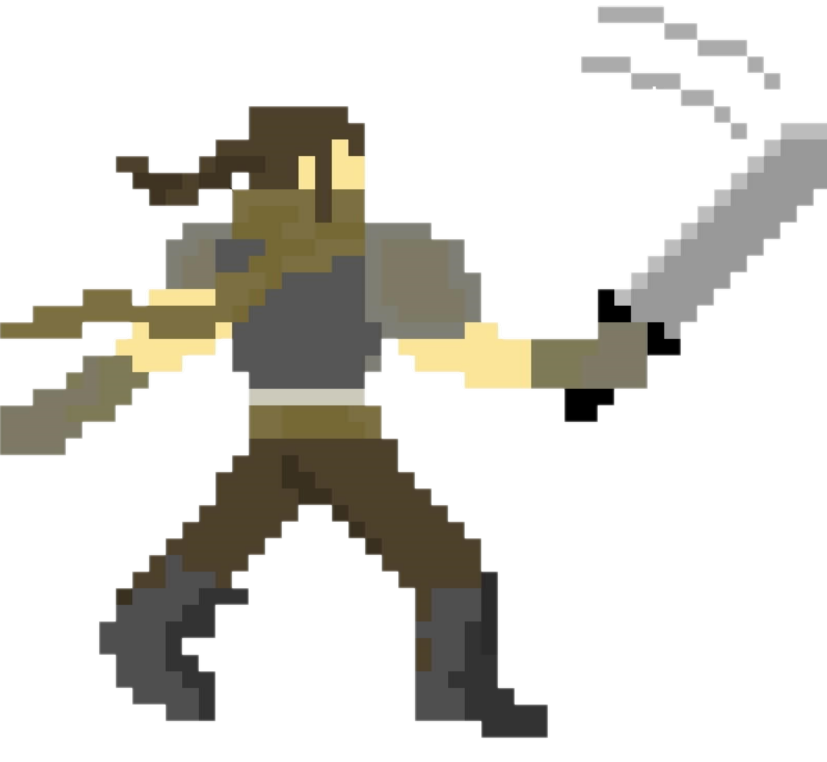
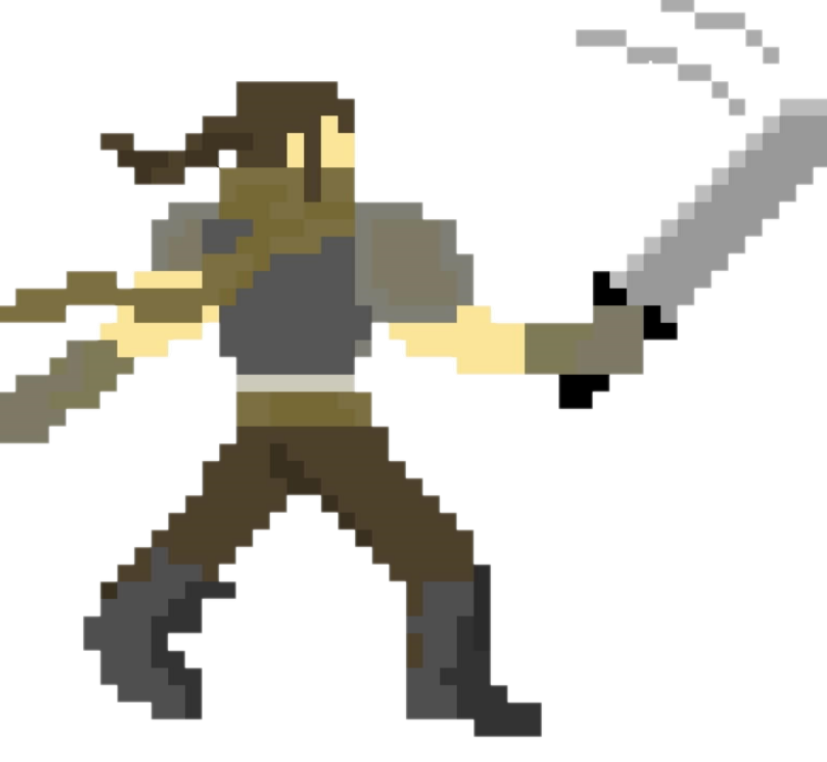
Added retreat animation poses for slick and orbyn

diff --git a/src/constructors/character.js b/src/constructors/character.js
@@ -3,8 +3,10 @@ import valeAttack from '../assets/vale-attack.png'
 import valeRetreat from '../assets/vale-retreat.png'
 import slickStatic from '../assets/slick-static.png'
 import slickAttack from '../assets/slick-attack.png'
+import slickRetreat from '../assets/slick-retreat.png'
 import orbynStatic from '../assets/orbyn-static.png'
 import orbynAttack from '../assets/orbyn-attack.png'
+import orbynRetreat from '../assets/orbyn-retreat.png'
 
 import { valeGreatsword, slickDoubleDaggers, unarmed } from "./weapons.js";
 import { plateArmor, leatherArmor, tunic } from "./armor.js";
@@ -130,9 +132,9 @@ class Monk extends Character {
 
 const valeChar = new Knight ("Vale", 20, 20, 3, 1, 0, 12, valeGreatsword,plateArmor,`Tank`, valeStatic, valeAttack, valeRetreat, 2, 2, 1, 1, 0)
 
-const slickChar = new Rogue ("Slick", 15, 15, 1, 3, 0, 14,slickDoubleDaggers, leatherArmor,"Agile", slickStatic, slickAttack, slickStatic, 3, 3, 1, 1, 0)
+const slickChar = new Rogue ("Slick", 15, 15, 1, 3, 0, 14,slickDoubleDaggers, leatherArmor,"Agile", slickStatic, slickAttack, slickRetreat, 3, 3, 1, 1, 0)
 
-const orbynChar = new Monk ('Orbyn', 15, 15, 2, 1, 1, 15,unarmed, tunic,"Mindful", orbynStatic, orbynAttack, orbynStatic, 3, 3, 2, 2, 0)
+const orbynChar = new Monk ('Orbyn', 15, 15, 2, 1, 1, 15,unarmed, tunic,"Mindful", orbynStatic, orbynAttack, orbynRetreat, 3, 3, 2, 2, 0)
 
 
 const characterRoster = [valeChar, slickChar, orbynChar]

diff --git a/src/index.css b/src/index.css
@@ -404,7 +404,7 @@ to{
     transform: translateX(90px);
   }
 
-50%{
+20%{
   transform: translateX(90px);
 }
 
@@ -433,7 +433,7 @@ to{
 }
 
 .retreat-display{
-  animation: heroRetreatAni .5s linear 1 normal none;
+  animation: heroRetreatAni .4s linear 1 normal none;
   width: 150px;
   height: 150px;
   position: absolute;
@@ -800,12 +800,6 @@ footer {
       top: 40px;
   }
 
-  #arena-hero-attack {
-      position: relative;
-      left: 50px;
-      top: 25px;
-
-  }
 
   .static-display{
     width: 70px;
@@ -819,6 +813,7 @@ footer {
     width: 70px;
     height: 70px;
     position: relative;
+    left: 90px;
     top: 25px;
   }
 

diff --git a/src/components/CombatComponents/CombatDiv.js b/src/components/CombatComponents/CombatDiv.js
@@ -13,8 +13,8 @@ export default function CombatDiv({ combatDisplay, chosenCharacter, StaminaReduc
 
     function attackAnimation() {
         heroAttackAppear()
-        setTimeout(heroAttackDisappear, 750)
-        setTimeout(heroRetreatDisappear, 1250)
+        setTimeout(heroAttackDisappear, 850)
+        setTimeout(heroRetreatDisappear, 1150)
     }
 
     function heroAttackAppear() {
